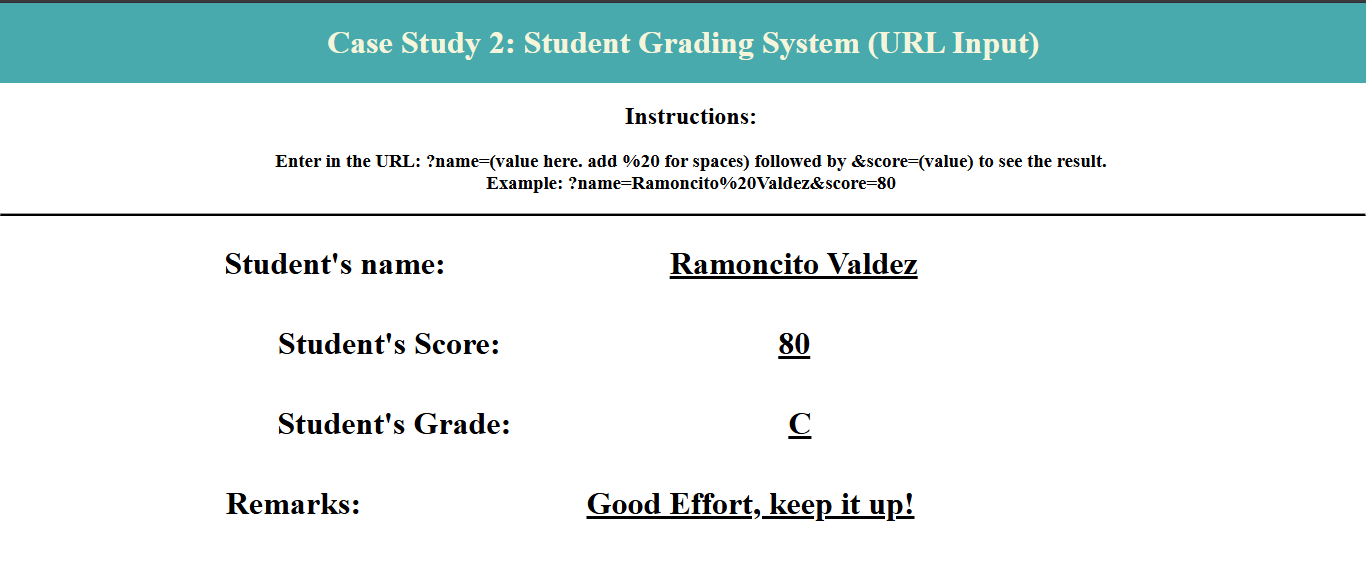
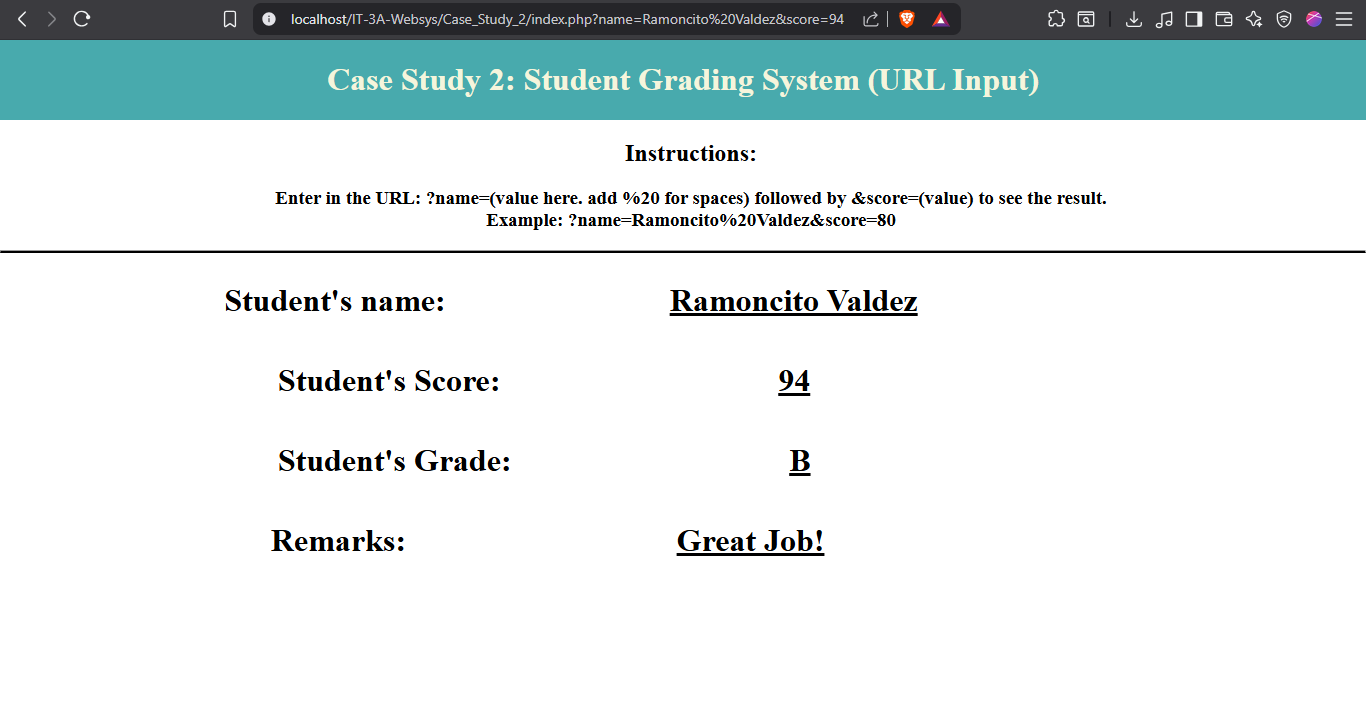
made changes to code; reflect changes to output

diff --git a/Case_Study_2/index.php b/Case_Study_2/index.php
@@ -10,15 +10,15 @@
         $grade = "A";
         $remark = "Outstanding Performance!";
     }
-    else if($score >= 86 && $score < 95 ){
+    else if($score >= 90 && $score <= 94 ){
         $grade = "B";
         $remark = "Great Job!";
     }
-    else if($score >= 80 && $score < 86 ){
+    else if($score >= 85 && $score <= 89 ){
         $grade = "C";
         $remark = "Good Effort, keep it up!";
     }
-    else if($score > 74 && $score < 80 ){
+    else if($score >= 75 && $score <= 84 ){
         $grade = "D";
         $remark = "Work harder next time.";
     }
